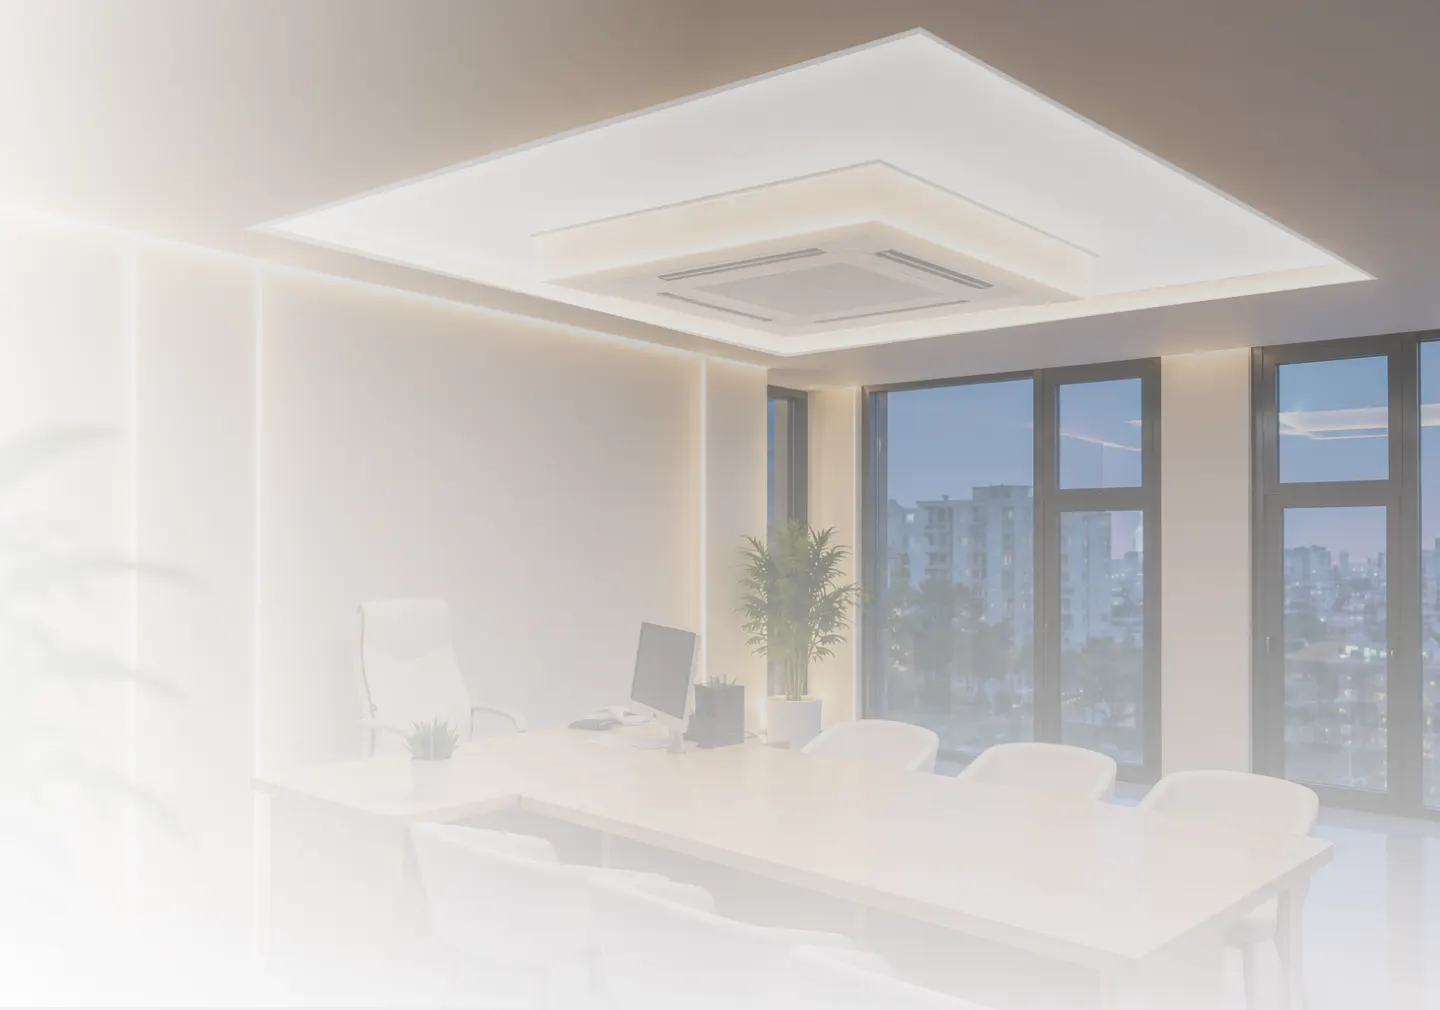
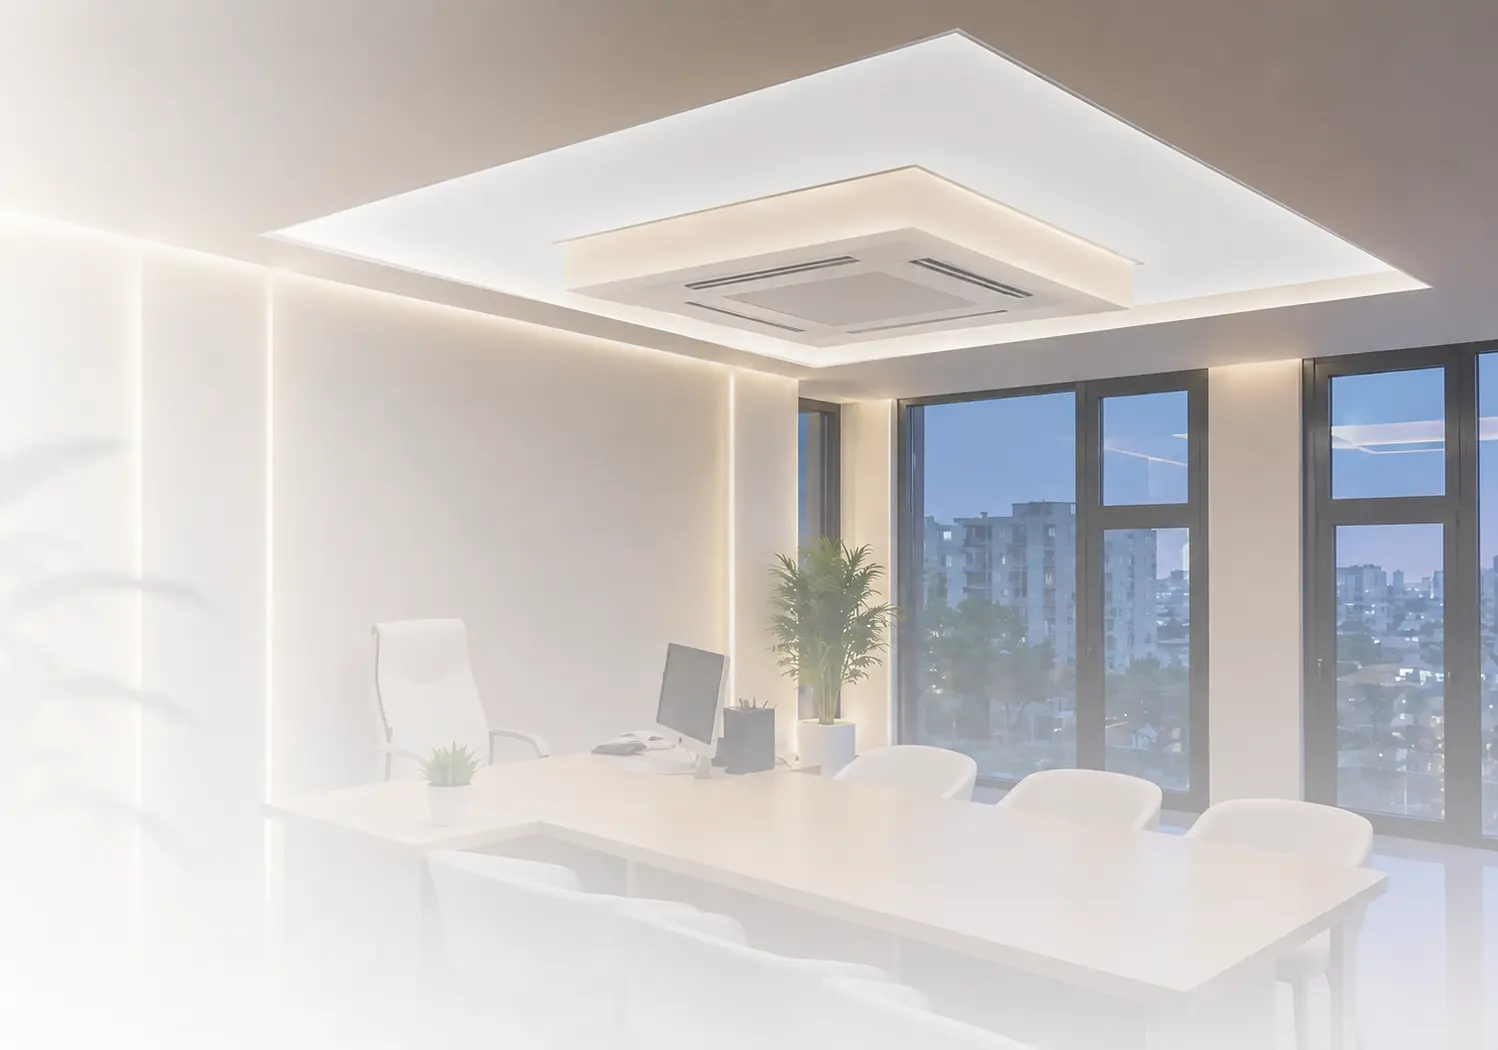
Add files via upload

diff --git a/css/style.css b/css/style.css
@@ -5,7 +5,6 @@ html, body{
     background-color: #F4F4F6;
     scroll-behavior: smooth;
     touch-action: manipulation;
-
 }
 
 *{
@@ -15,10 +14,10 @@ html, body{
 }
 
 .selfer {
-  display: flex;
-  flex-wrap: wrap;
-  justify-content: space-between;
-  gap: 25px;
+    display: flex;
+    flex-wrap: wrap;
+    justify-content: space-between;
+    gap: 25px;
 }
 
 .selfer a{
@@ -84,7 +83,6 @@ html, body{
     top: 20px;
     left: 100px;
     color: black;
-    /* border: 0.1px #DCDCDC solid; */
     border-radius: 50px;
     font-size: 20px;
     font-weight: 700;
@@ -92,16 +90,12 @@ html, body{
 
     backdrop-filter: blur(3px);
     background-color: rgba(255, 255, 255, 0.35);
-
-
-
-
 }
 
 .contentBoxBanner{
     width: 900px;
     position: absolute;
-    top: 25%;
+    top: 30%;
     padding: 0 100px;
 }
 
@@ -126,9 +120,25 @@ html, body{
 
 }
 
-.getConsult {
-  position: relative;
-  overflow: hidden;
+
+
+.getConsult{
+    position: relative;
+    overflow: hidden;
+    margin-top: 50px;
+    background-color: #F3D61F;
+    font-size: 30px;
+    font-weight: 700;
+
+    color: black;
+    display: flex;
+    align-items: center;
+    gap: 20px;
+    border: none;
+    padding: 20px 50px;
+    border-radius: 50px;
+    transition: all 0.3s;
+    cursor: pointer;
 }
 
 .getConsult::after {
@@ -153,25 +163,6 @@ html, body{
   0%   { left: -150%; }
   100% { left: 150%; }
 }
-
-
-.getConsult{
-    margin-top: 50px;
-    background-color: #F3D61F;
-    font-size: 30px;
-    font-weight: 700;
-
-    color: black;
-    display: flex;
-    align-items: center;
-    gap: 20px;
-    border: none;
-    padding: 20px 50px;
-    border-radius: 50px;
-    transition: all 0.3s;
-    cursor: pointer;
-}
-
 .getConsult:hover{
     background-color: #cbb31a;
 }
@@ -218,6 +209,20 @@ html, body{
 }
 
 
+.gvn{
+    background-color: black;
+    color: #DEC313;
+    width: 300px;
+    width: fit-content;
+    align-items: center;
+    padding: 5px;
+    border-radius: 10px;
+    font-size: 80px;
+    font-weight: 700;
+    margin-top: 15px;
+}
+
+
 .product{
     display: flex;
     gap: 20px;
@@ -235,8 +240,6 @@ html, body{
 .cardochkaLine1{
     display: flex;
     margin-bottom: 30px;
-    /* gap: 100px; */
-    /* justify-content: center; */
 }
 
 .textusCard{
@@ -269,14 +272,9 @@ html, body{
 }
 
 
-.cardLine{
-    display: flex;
-    /* margin-left: 100px; */
-}
+.cardLine{display: flex;}
 
-.card img{
-    width: 120px;
-}
+.card img{width: 120px;}
 
 .card{
     margin-right: 20px;
@@ -339,7 +337,7 @@ html, body{
 }
 
 .usWork{
-    position: relative; /* обязательно */
+    position: relative;
     box-shadow: 0px 4px 4px 0px #00000040 inset;
     border-radius: 50px;
     width: 100%;
@@ -399,18 +397,45 @@ html, body{
     gap: 30px;
 }
 
-
-.scred{
-    background:#E5E5E7;
-    width:250px;height:250px;
-    border-radius:30px;padding:10px;
-    box-sizing:border-box;
-    display:flex;flex-direction:column;
-    justify-content:center;align-items:center;
+.scred {
+    background: #ffffff;
+    width: 250px;
+    height: 250px;
+    border-radius: 30px;
+    padding: 10px;
+    box-sizing: border-box;
+    display: flex;
+    flex-direction: column;
+    justify-content: center;
+    align-items: center;
+    gap: 14px;
+    border: 1px solid #eef0f4;
+    box-shadow: 0 1px 2px rgba(0, 0, 0, 0.04);
+    transition: all 0.3s ease;
+    position: relative;
+    cursor: pointer;
 }
-.scred img{width:100px}
-.scred p{width:130px;font-size:20px;font-weight:600;text-align:center;margin:0}
 
+.scred:hover {
+    border-color: #d8dcff;
+    box-shadow: 0 8px 24px rgba(99, 102, 241, 0.08);
+}
+
+.scred img {
+    width: 100px;
+    transition: transform 0.3s ease;
+}
+
+.scred p {
+    width: 170px;
+    font-size: 18px;
+    font-weight: 600;
+    line-height: 1.3;
+    text-align: center;
+    margin: 0;
+    color: #374151;
+    padding-bottom: 12px;
+}
 
 .callMeBaby{
     width: 650px;
@@ -537,12 +562,14 @@ html, body{
 }
 
 
-
-
-
 .burger {
-  background: none; border: none; cursor: pointer;
-  display: flex; flex-direction: column; gap: 5px; padding: 8px;
+  background: none;
+  border: none;
+  cursor: pointer;
+  display: flex;
+  flex-direction: column;
+  gap: 5px;
+  padding: 8px;
 }
 .burger span {
   display: block; width: 28px; height: 3px;
@@ -597,6 +624,25 @@ html, body{
 @media (min-width: 769px) {
     .product img{
         width: 30%;
+    }
+    .scred::after {
+        content: "";
+        position: absolute;
+        bottom: 20px;
+        left: 50%;
+        transform: translateX(-50%) scaleX(0);
+        width: 40px;
+        height: 3px;
+        background: linear-gradient(90deg, #DEC313, #cbb31a);
+        border-radius: 3px;
+        transition: transform 0.3s ease;
+    }
+
+    .scred:hover::after {
+        transform: translateX(-50%) scaleX(1);
+    }
+    .scred:hover img {
+        transform: translateY(-4px);
     }
 }
 
@@ -661,7 +707,6 @@ html, body{
     }
 
     .gorood{
-        position: absolute;
         top: 20px;
         left: 30px;
         border-radius: 50px;
@@ -672,6 +717,13 @@ html, body{
 
     .contentBoxBanner .brbrTR{
         padding: 3px;
+    }
+
+    .gvn{
+        width: 300px;
+        padding: 5px;
+        font-size: 29px;
+        margin-top: 10px;
     }
 
     .gradiENT{
@@ -796,10 +848,6 @@ html, body{
         top: 55%;
     }
 
-
-
-
-    /* Точки */
     .product-dots {
         display: flex;
         justify-content: center;
@@ -887,13 +935,6 @@ html, body{
         justify-content: center;
     }
 
-    .showMoreParrent{
-        width: 160px;
-        height: 160px;
-        background-color: red;
-        
-    }
-
     .bottomBTN {
         display: flex;
         margin: 0 30px;
@@ -935,7 +976,7 @@ html, body{
     }
 
     .usWork{
-        position: relative; /* обязательно */
+        position: relative;
         box-shadow: 0px 4px 4px 0px #00000040 inset;
         border-radius: 50px;
         width: 100%;
@@ -951,7 +992,8 @@ html, body{
 
 
     .mrOtstup{
-        margin: 0px 30px;
+        margin: 0px 10px;
+        box-sizing: border-box;
         display: block;
     }
 
@@ -966,10 +1008,10 @@ html, body{
         display: flex;
         gap: 5px;
         margin-top: 50px;
+        justify-content: center;
     }
-    
+
     .scred{
-        background-color: #17171833;
         width: 110px;
         height: 110px;
         padding: 10px;
@@ -985,12 +1027,17 @@ html, body{
         width: 90px;
     }
 
+    .scred:hover {
+        border-color: #d8dcff;
+        box-shadow: 0 8px 24px rgba(99, 102, 241, 0.08);
+    }
+
+
     .callMee{
+        display: block;
         width: 100%;
-        padding: 10px;
         border-radius: 50px;
     }
-    
 
     .callMeBaby{
         display: none;
@@ -1059,5 +1106,4 @@ html, body{
         gap: 50px;
         margin-top: 50px;
     }
-
 }

diff --git a/index.html b/index.html
@@ -46,7 +46,17 @@
         <img src="mamka/bannerPhone.webp" alt="" class="bnr" id="siphone">
         <div class="gorood">г. Волгоград</div>
         <div class="contentBoxBanner">
-            <h1>Современные световые решения</h1> <h1 class="brbrTR" style="background-color: black; color: #DEC313; width: fit-content; padding: 10px; padding-bottom: 20px; border-radius: 10px; margin-top: 15px;">для потолков и стен</h1>
+            <h1>Современные световые решения</h1> 
+            <div class="gvn">Для потолков и стен</div>
+            <!-- <h1 class="brbrTR" style="
+                background: linear-gradient(180deg, transparent 55%, #DEC313 55%);
+                color: #111;
+                width: fit-content;
+                padding: 0 6px;
+                margin-top: 15px;
+                line-height: 1.15;
+                display: inline-block;
+            ">для потолков и стен</h1> -->
             <p class="miniPeka">Проектируем, изготавливаем и устанавливаем световые панели</p>
             <a onclick="openModal()" style="text-decoration: none;"><button class="getConsult">Получить консультацию ></button></a>
         </div>
